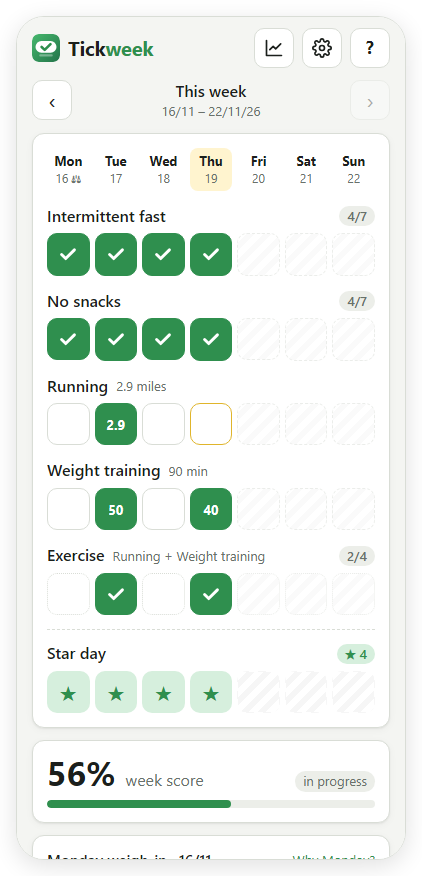
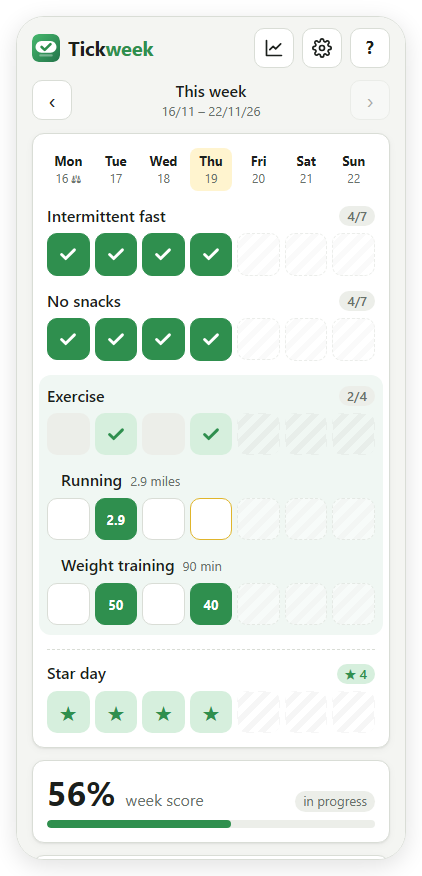
Release 0.6.1: grouped targets stand out (#24)
A combined target heads its group, with its sources indented under it,
in a lightly tinted panel on This week and in Settings. The panel uses
the card's padding, so the boxes keep their size and stay lined up with
the day headers. The combined target's boxes look read-only, like the
Star day row. README This week and Settings screenshots retaken.

diff --git a/public/js/week.js b/public/js/week.js
@@ -202,26 +202,36 @@ function renderGrid(change) {
   const head = h('div', { class: 'grid' }, data.days.map((d) =>
     h('div', { class: 'dayhead' + (d.isToday ? ' today' : '') + (d.dow === 'Mon' ? ' weighday' : ''), title: d.dow === 'Mon' ? 'Weigh-in day' : null },
       h('b', {}, d.dow), d.ddmm.slice(0, 2), d.dow === 'Mon' ? h('span', { class: 'scale', 'aria-hidden': 'true' }, ' ⚖') : null)));
-  const blocks = grouped(data.targets).map((t) => {
-    const met = showsStars(t);
-    // Cascade order over the filled boxes: left-to-right into stars, right-to-left back to ticks.
-    let order = null;
-    if (change?.ids.has(t.id)) {
-      const filled = data.days.filter((d) => (data.entries[t.id]?.[d.date] ?? 0) > 0).map((d) => d.date);
-      if (change.dir === 'out') filled.reverse();
-      order = new Map(filled.map((date, i) => [date, i]));
-    }
-    return h('div', { class: 'target' },
-      h('div', { class: 'name' },
-        t.name,
-        t.kind === 'number' ? h('span', { class: 'unit' }, weekTotal(t) ? `${fmtNum(weekTotal(t))} ${t.unit ?? ''}` : t.unit ?? '') : null,
-        t.kind === 'combined' ? h('span', { class: 'unit' }, sourcesOf(t).map((s) => s.name).join(' + ')) : null,
-        t.goal_days != null ? h('span', { style: 'margin-left:auto', class: 'pill' + (met ? ' met' : '') }, `${t.done}/${t.goal_days}`) : null,
-      ),
-      h('div', { class: 'grid' }, data.days.map((d) => cell(t, d, met, order?.has(d.date) ? { dir: change.dir, i: order.get(d.date) } : null))),
-    );
-  });
+  // A combined target heads a .group block; its sources follow inside it.
+  const blocks = [];
+  let group = null;
+  for (const t of grouped(data.targets)) {
+    const row = targetRow(t, change);
+    if (t.kind === 'combined') blocks.push(group = h('div', { class: 'group' }, row));
+    else if (parentOf(t) && group) group.append(row);
+    else { group = null; blocks.push(row); }
+  }
   card.replaceChildren(head, ...blocks, fullDayRow());
+}
+
+/** One target's row: name, unit or weekly total, N/goal pill, and its seven boxes. */
+function targetRow(t, change) {
+  const met = showsStars(t);
+  // Cascade order over the filled boxes: left-to-right into stars, right-to-left back to ticks.
+  let order = null;
+  if (change?.ids.has(t.id)) {
+    const filled = data.days.filter((d) => (data.entries[t.id]?.[d.date] ?? 0) > 0).map((d) => d.date);
+    if (change.dir === 'out') filled.reverse();
+    order = new Map(filled.map((date, i) => [date, i]));
+  }
+  return h('div', { class: 'target' + (parentOf(t) ? ' src' : '') },
+    h('div', { class: 'name' },
+      t.name,
+      t.kind === 'number' ? h('span', { class: 'unit' }, weekTotal(t) ? `${fmtNum(weekTotal(t))} ${t.unit ?? ''}` : t.unit ?? '') : null,
+      t.goal_days != null ? h('span', { style: 'margin-left:auto', class: 'pill' + (met ? ' met' : '') }, `${t.done}/${t.goal_days}`) : null,
+    ),
+    h('div', { class: 'grid' }, data.days.map((d) => cell(t, d, met, order?.has(d.date) ? { dir: change.dir, i: order.get(d.date) } : null))),
+  );
 }
 
 /** Bottom row: a ★ under each day where every 7/7 target was done. Only shown if the week has 7/7 targets. */

diff --git a/public/style.css b/public/style.css
@@ -104,13 +104,19 @@ button, input, select { font: inherit; color: inherit; }
 .cell.done:disabled { background-image: none; opacity: .75; }
 .cell.future { border-style: dashed; opacity: .5; }
 .cell svg { width: 22px; height: 22px; }
-/* A combined target's boxes fill themselves: dotted, not tappable. */
-.cell.auto { cursor: default; border-style: dotted; }
+/* A combined target's boxes fill themselves, so they look like the Star day row, not like buttons:
+   grey when empty, soft green with a green tick (or star) when done. */
+.cell.auto { cursor: default; border-color: transparent; background: var(--surface-2); color: var(--accent); }
 .cell.auto:active { transform: none; }
-.cell.auto.done { border-style: solid; }
+.cell.auto.done { background: var(--accent-soft); border-color: transparent; color: var(--accent); }
+.cell.auto.future { background: var(--locked); border-color: transparent; opacity: 1; }
 .cell.auto.locked:not(.done) { background-image: var(--locked); }
-.cell.auto.locked.done { opacity: .75; }
 .target .name .unit { min-width: 0; overflow: hidden; text-overflow: ellipsis; white-space: nowrap; }
+/* A combined target with its sources: a lightly tinted panel. It reaches into the card's padding (negative margin),
+   so the boxes keep their width and stay lined up with the day headers. */
+.group { margin: 14px -8px 0; padding: 10px 8px; border-radius: 12px; background: color-mix(in srgb, var(--accent) 7%, var(--surface)); }
+.group > .target:first-child { margin-top: 0; }
+.target.src .name { padding-left: 14px; font-weight: 500; }
 
 /* Stars for met rows: every filled box shows ★ once the row reaches its goal. */
 .cell .g { display: grid; place-items: center; line-height: 1; }
@@ -190,6 +196,14 @@ dialog.pad::backdrop { background: rgba(0,0,0,.45); }
 .checks .chk { display: inline-flex; align-items: center; gap: 6px; }
 .form .checks input { width: 18px; height: 18px; accent-color: var(--accent); }
 .tlist li.src { padding-left: 14px; }
+.tlist li.grp { margin: 0 -8px; padding-left: 8px; padding-right: 8px; background: color-mix(in srgb, var(--accent) 7%, var(--surface)); }
+.tlist li.grp.src { padding-left: 22px; }
+.tlist li.grp-first { border-radius: 12px 12px 0 0; }
+.tlist li.grp-last { border-radius: 0 0 12px 12px; }
+.tlist li.grp-first.grp-last { border-radius: 12px; }
+.tlist li.grp + li:not(.grp) { border-top-color: transparent; margin-top: 6px; }
+.tlist li:not(.grp) + li.grp-first { border-top-color: transparent; margin-top: 6px; }
+
 .switch { display: flex; align-items: center; gap: 10px; cursor: pointer; }
 .switch input { width: 20px; height: 20px; accent-color: var(--accent); }
 

diff --git a/public/js/settings.js b/public/js/settings.js
@@ -15,7 +15,7 @@ const sourcesOf = (t) => targets.filter((s) => s.part_of === t.id && !s.archived
 const kindLabel = (t) => (t.kind === 'tick' ? 'Tick' : t.kind === 'number' ? `Number${t.unit ? ` (${t.unit})` : ''}` : 'Combined');
 function describe(t) {
   const goal = t.goal_days != null ? `${t.goal_days}/7` : t.part_of && byId(t.part_of) ? `in ${byId(t.part_of).name}` : 'no goal';
-  const from = t.kind === 'combined' ? ` · ${sourcesOf(t).map((s) => s.name).join(' + ') || 'nothing yet'}` : '';
+  const from = t.kind === 'combined' && !sourcesOf(t).length ? ' · counts nothing yet' : '';
   return `${kindLabel(t)}${from} · ${goal}`;
 }
 /** Checkboxes for a combined target's sources: every active tick/number target. */
@@ -38,15 +38,18 @@ function renderTargets() {
   const active = grouped(targets.filter((t) => !t.archived_at));
   const archived = targets.filter((t) => t.archived_at);
   // Reorder moves blocks: a combined target moves together with its sources.
-  // grouped() puts sources straight before their combined target, so collect them until it comes.
+  // grouped() puts sources straight after their combined target, so they join its block.
   const blocks = [];
-  let sources = [];
   for (const t of active) {
-    if (t.part_of && active.some((x) => x.id === t.part_of)) { sources.push(t); continue; }
-    blocks.push(t.kind === 'combined' ? [...sources, t] : [t]);
-    sources = [];
+    if (t.part_of && active.some((x) => x.id === t.part_of)) blocks.at(-1).push(t);
+    else blocks.push([t]);
   }
-  const rows = blocks.flatMap((block, bi) => block.map((t) => (t.id === editingId ? editRow(t) : viewRow(t, bi, blocks))));
+  const rows = blocks.flatMap((block, bi) => block.map((t, k) => {
+    const li = t.id === editingId ? editRow(t) : viewRow(t, bi, blocks);
+    // A combined target and its sources are drawn as one group.
+    if (block.length > 1) li.classList.add('grp', ...(k === 0 ? ['grp-first'] : []), ...(k === block.length - 1 ? ['grp-last'] : []));
+    return li;
+  }));
   $('targets').replaceChildren(...(rows.length ? rows : [h('li', { class: 'muted' }, 'No active targets.')]));
 
   $('archivedcard').classList.toggle('hidden', !archived.length);

diff --git a/src/combined.js b/src/combined.js
@@ -20,14 +20,14 @@ export function withCombined(targets, entries) {
   return out;
 }
 
-/** Display order: each combined target directly below its sources, at the combined target's own place. */
+/** Display order: each combined target at its own place, followed by its sources (like a heading and its items). */
 export function grouped(targets) {
   const has = new Set(targets.map((t) => t.id));
   const out = [];
   for (const t of targets) {
     if (t.part_of && has.has(t.part_of)) continue; // drawn with its combined target
-    if (t.kind === 'combined') out.push(...targets.filter((s) => s.part_of === t.id));
     out.push(t);
+    if (t.kind === 'combined') out.push(...targets.filter((s) => s.part_of === t.id));
   }
   return out;
 }

diff --git a/test/combined.test.js b/test/combined.test.js
@@ -40,7 +40,7 @@ test('withCombined: a day counts once whichever sources were done', () => {
   const out = withCombined(targets, entries);
   assert.deepEqual(out[3], { '2026-11-16': 1, '2026-11-17': 1, '2026-11-18': 1 });
   assert.equal(out[1], entries[1], 'sources untouched');
-  assert.deepEqual(grouped([{ id: 3, kind: 'combined' }, { id: 4 }, { id: 1, part_of: 3 }, { id: 2, part_of: 3 }]).map((t) => t.id), [1, 2, 3, 4]);
+  assert.deepEqual(grouped([{ id: 3, kind: 'combined' }, { id: 4 }, { id: 1, part_of: 3 }, { id: 2, part_of: 3 }]).map((t) => t.id), [3, 1, 2, 4]);
 });
 
 test('scoring leaves out targets with no goal', () => {

diff --git a/docs/design.md b/docs/design.md
@@ -75,9 +75,13 @@ The current week's score and streaks are "in progress" until the week closes.
    ticks spinning into stars with a brief glow; back to ticks right-to-left without the glow; a crossfade under
    reduced motion). Page loads and past weeks show the stars statically. Same green box, no new colours. History
    month dots are unchanged.
-   **Combined targets**: the row sits directly below its sources, at the combined target's place in the order. Its
-   boxes are read-only (dotted when empty) and show a tick on any day a source was done; when it's met, its sources'
-   filled boxes show ★ too. Sources show their weekly total and no N/goal pill.
+   **Combined targets**: the combined target heads a group, at its own place in the order, with its sources indented
+   under it, all in a lightly tinted panel (on This week and in Settings; prototyped as panel vs left rail, panel
+   chosen 19 Nov 2026). The panel reaches into the card's padding, so the boxes keep their width and stay lined up
+   with the day headers. Its boxes are read-only and styled like the Star day row (grey when empty, soft green with a green tick when done),
+   so they don't look like entry boxes;
+   when it's met, its sources' filled boxes show ★ too. Sources show their weekly total and no N/goal pill. In
+   Settings the group moves as one block (only the combined target has ↑↓).
    Order: the table first (with a Star day row at the bottom), then the week score, the weigh-in, then Streaks.
 2. **History** (weight first): current weight, change since the first weigh-in and progress to goal, above the
    weight chart. Then **one month at a time** (‹ month › switcher): a one-line month summary (weight change, score,

diff --git a/docs/changelogs/2026-11.md b/docs/changelogs/2026-11.md
@@ -1,5 +1,22 @@
 # Changelog: November 2026
 
+## 19 Nov 2026: v0.6.1
+
+- Released **v0.6.1**: grouped targets stand out (tinted panel, combined target first, read-only boxes styled like
+  Star day). README This week and Settings screenshots retaken. `package.json` and the README `docker run` tag
+  bumped. No database change.
+
+## 19 Nov 2026: grouped targets stand out
+
+- A combined target and its sources now sit in one lightly tinted panel, on This week and in Settings, with the
+  combined target first as the heading and its sources indented under it (was: sources first, combined row below).
+  Rendered panel vs a left green rail side by side (light + dark); panel chosen.
+- The panel reaches into the card's padding, so the boxes keep their size and stay lined up with the day headers.
+- Exercise's boxes now look read-only, like the Star day row: grey when empty, soft green with a green tick (★ when
+  met) instead of the solid green of boxes you tap.
+- The "Running + Weight training" label next to Exercise is gone (the rows under it say it); Settings describes a
+  combined target as "Combined · 4/7".
+
 ## 19 Nov 2026: README screenshots for 0.6.0
 
 - All eight README screenshots retaken (This week, History, Year and achievements, Settings; light + dark) from a

diff --git a/README.md b/README.md
@@ -138,7 +138,7 @@ docker run -d --name tickweek \
   -p 3000:3000 \
   -v /path/to/tickweek-data:/data \
   -e TZ=Europe/London \
-  ghcr.io/ajyounguk/tickweek:0.6.0
+  ghcr.io/ajyounguk/tickweek:0.6.1
 ```
 
 Then open `http://<your-server>:3000`, and on your phone use **Add to Home Screen**. Pin a version tag as above and
